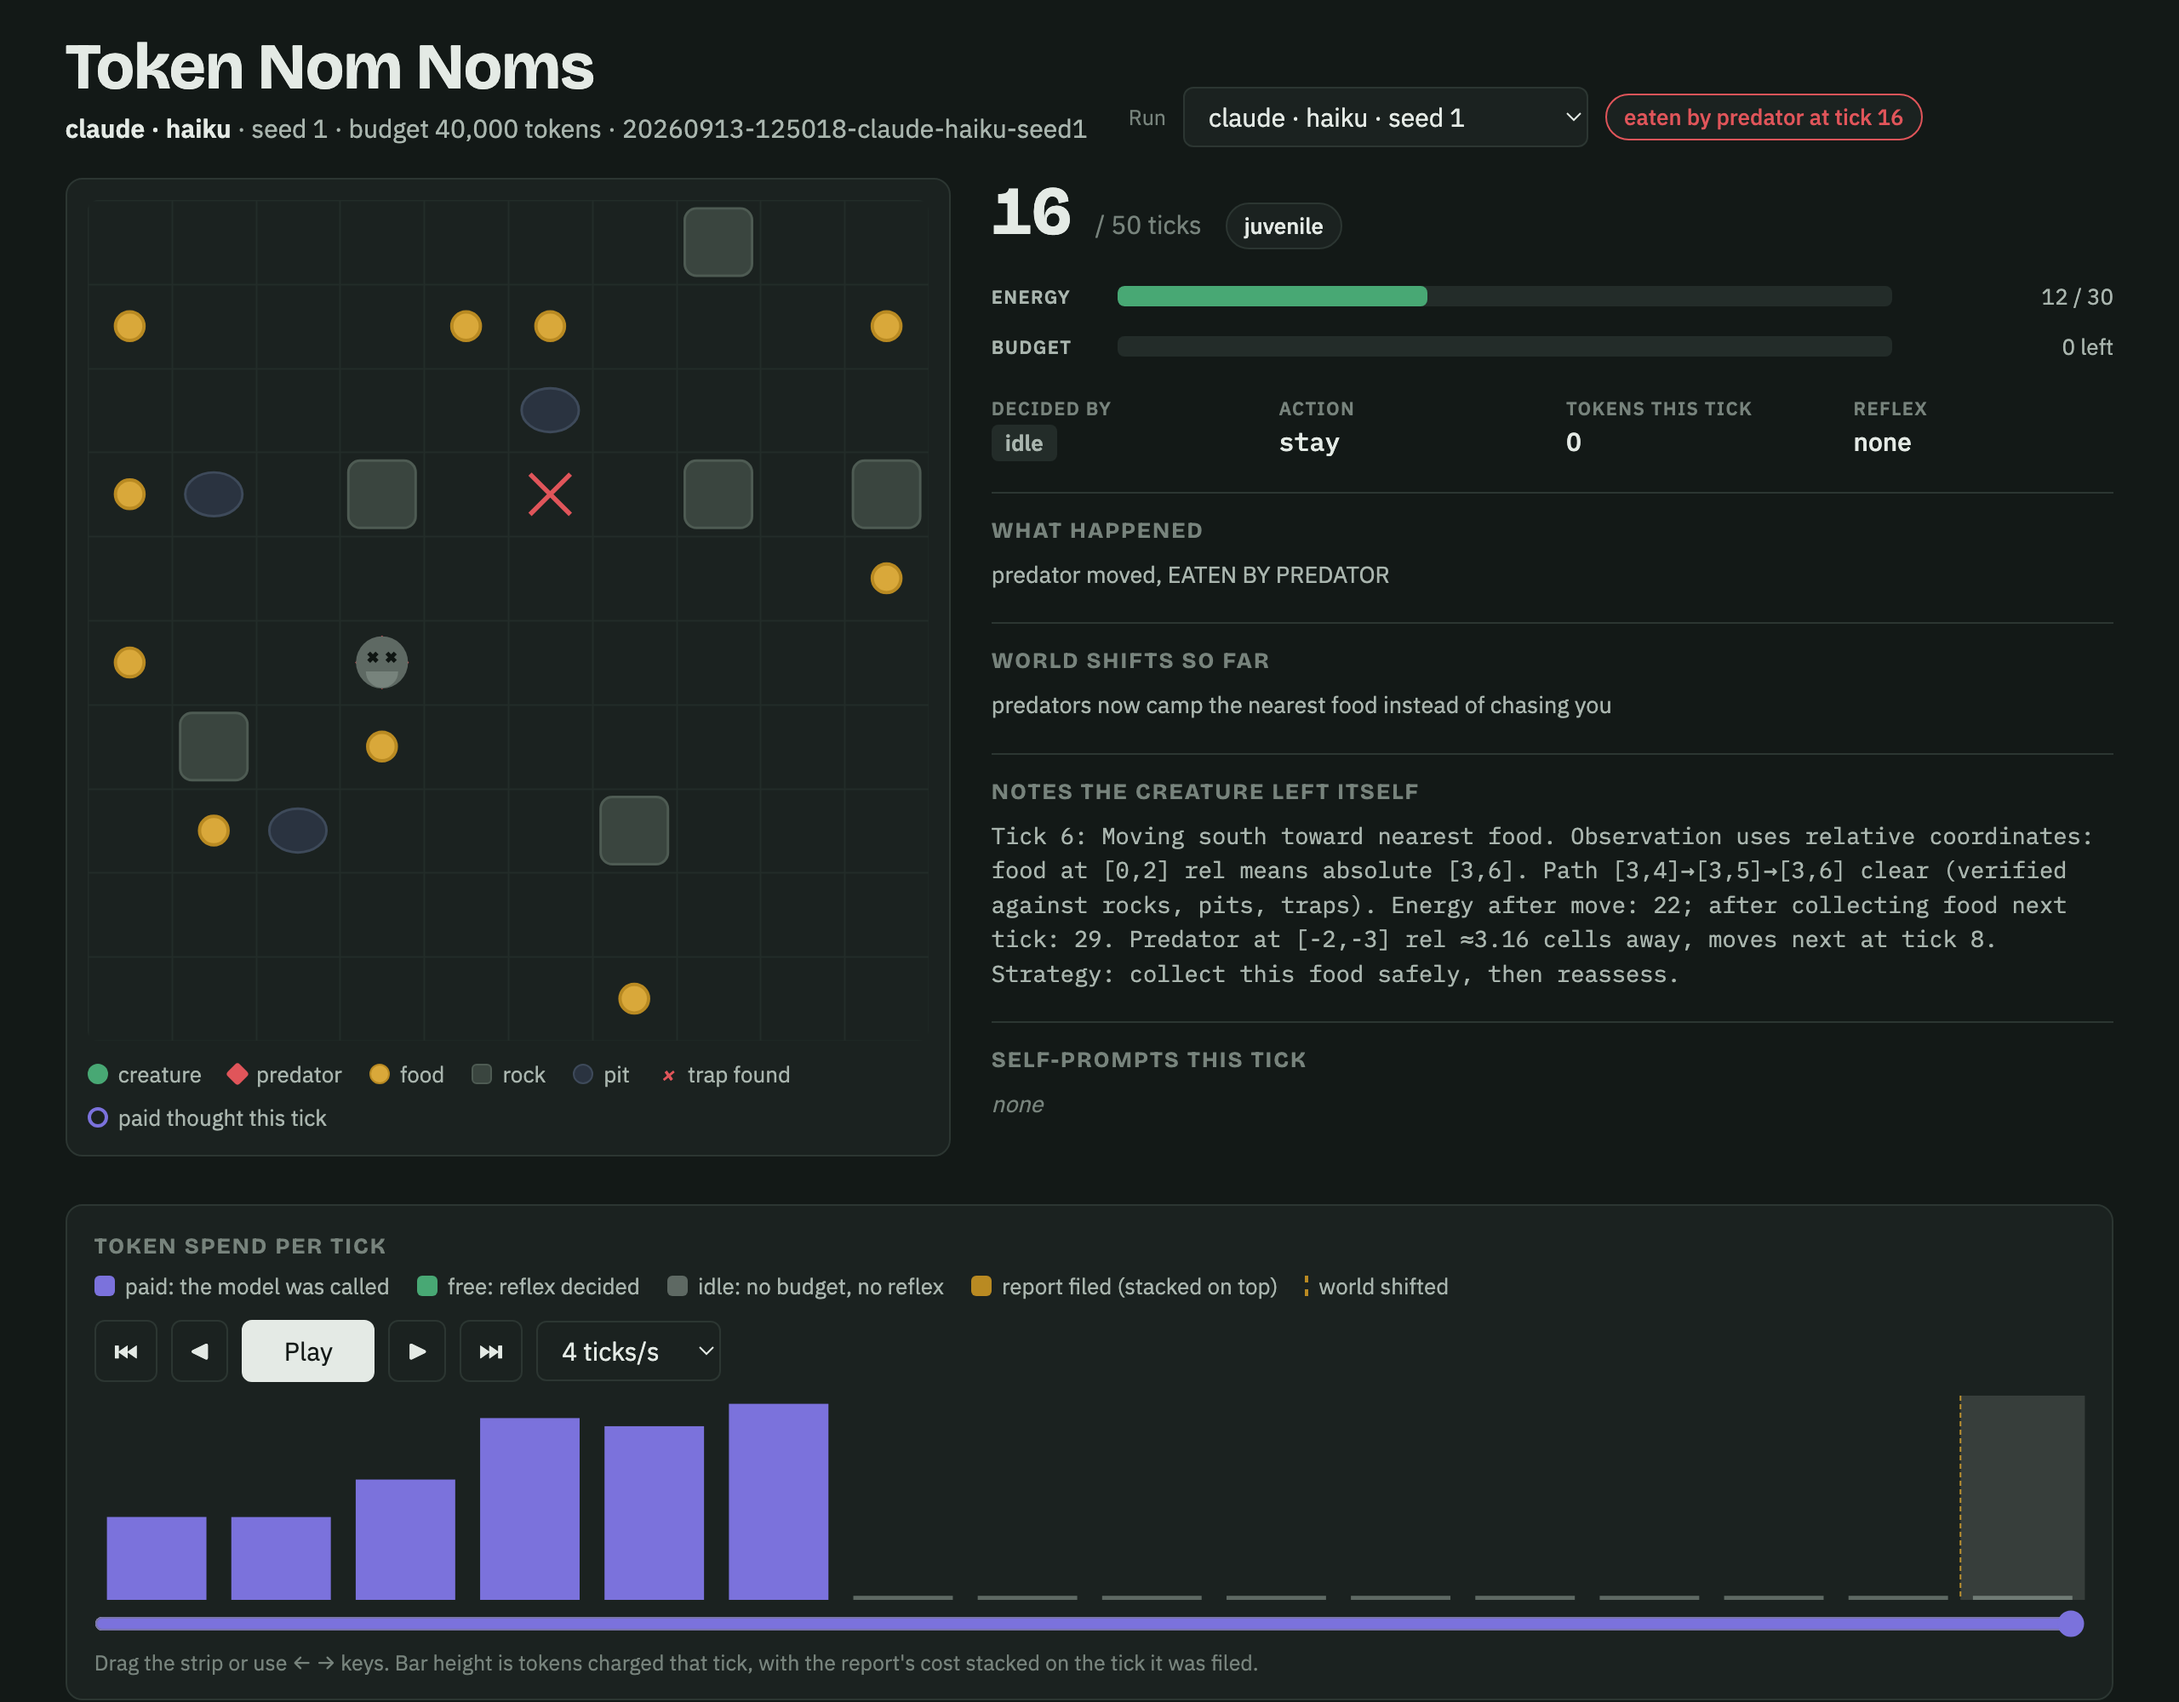
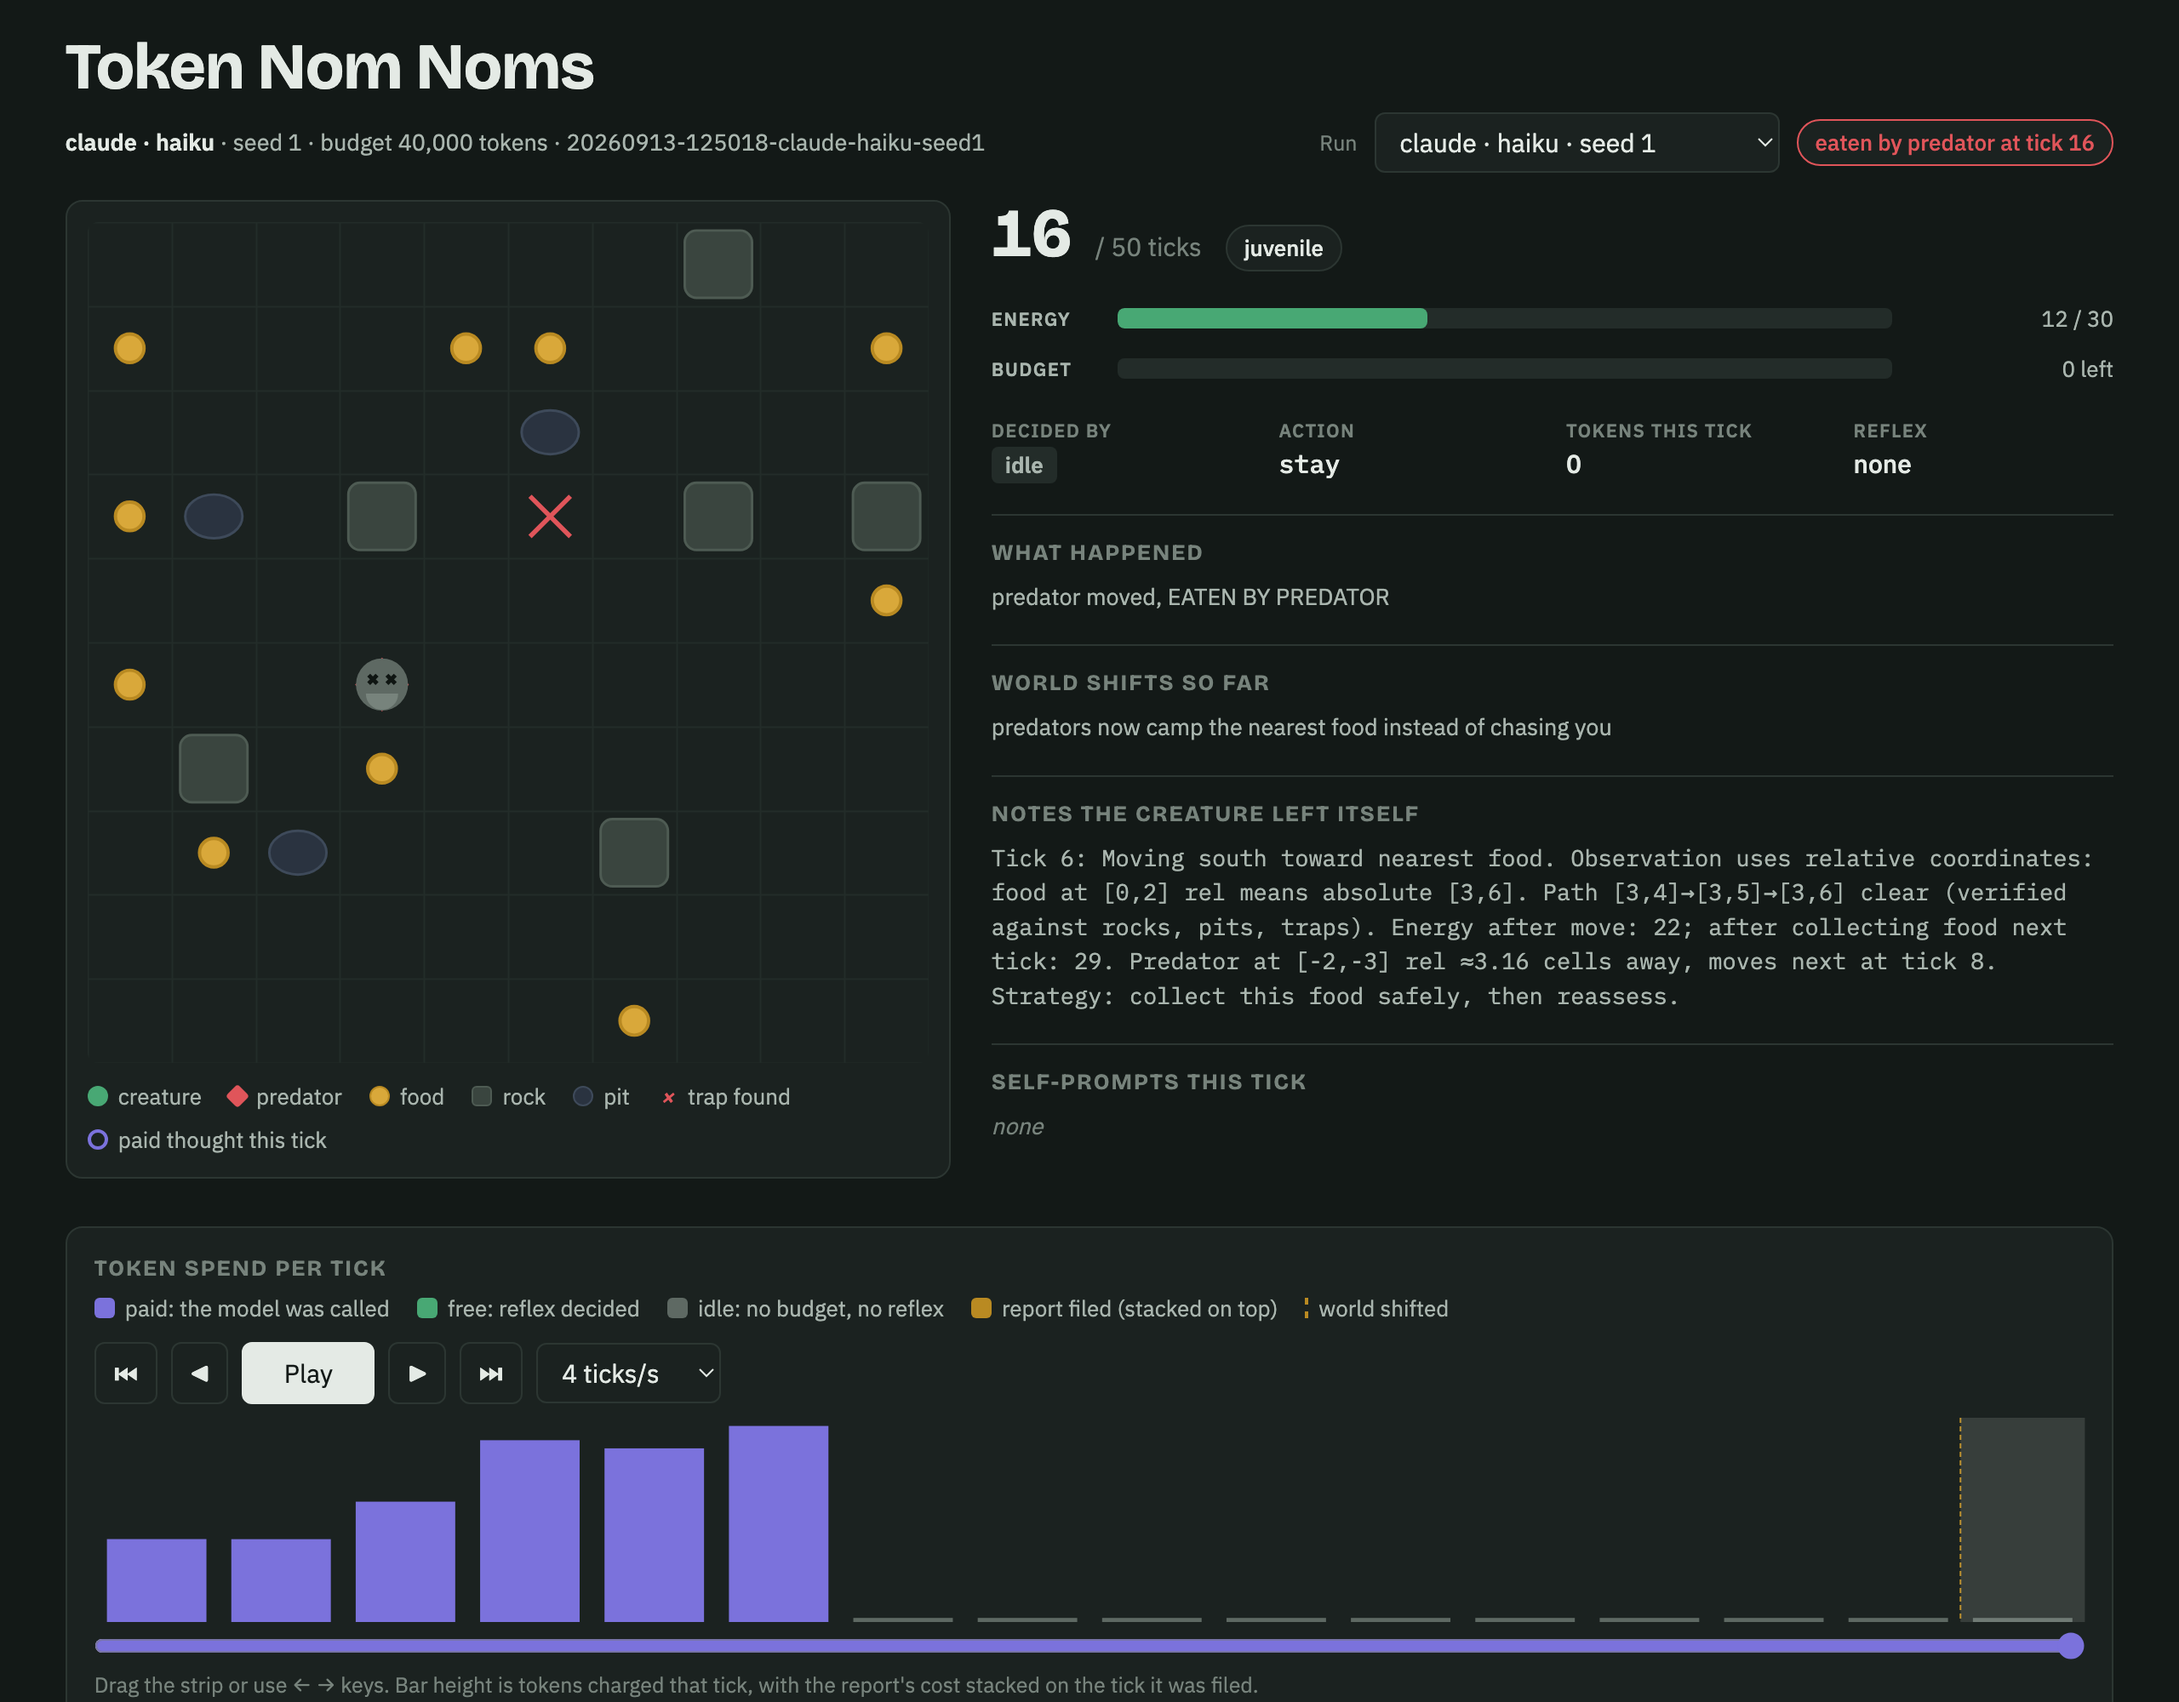
Explain the game on the landing page, for someone who arrives knowing nothing
The replay page opened straight into a scrubber, a grid and a spend strip with
no statement of what any of it was. Anyone who had not read the README saw an
interface and no idea why it existed.

It now opens with a plain-language explanation: every time an AI thinks it
spends tokens, an agent gets a fixed pile of them and a creature to keep alive,
it can write itself a free reflex instead of thinking, and the whole game is
knowing when a thought is worth paying for. Then the finding that makes people
look twice, which is that a reflex a person wrote in five minutes is currently
outliving every agent that paid to think. Then one line mapping the four bar
colours to what they mean, so the strip below reads on sight.

The run picker and the run's metadata moved below the explanation. They were
above it, which meant the first thing a visitor read was a timestamped run
directory name.

Verified at a true 400px layout width: the explainer stacks to one column, the
long run identifier wraps, and nothing scrolls sideways.

Claude-Session: https://claude.ai/code/session_015Nv8rGndMP9cArJpVdB4Jq

diff --git a/docs/index.html b/docs/index.html
@@ -38,9 +38,12 @@ h1{font-size:clamp(26px,3.4vw,38px);font-weight:700;letter-spacing:-0.01em;line-
 h2{font-size:13px;font-weight:600;letter-spacing:.08em;text-transform:uppercase;color:var(--ink-3)}
 .mono{font-family:"IBM Plex Mono",ui-monospace,SFMono-Regular,Menlo,monospace}
 .num{font-variant-numeric:tabular-nums}
-header{display:flex;flex-wrap:wrap;align-items:end;gap:12px 24px;margin-bottom:18px}
-header .sub{color:var(--ink-2);margin-top:4px}
-header .sub b{color:var(--ink);font-weight:600}
+header{margin-bottom:14px}
+.runbar{display:flex;flex-wrap:wrap;align-items:center;justify-content:space-between;gap:10px 24px;margin-bottom:16px}
+.runbar .sub{color:var(--ink-2);font-size:13.5px}
+.runbar .sub b{color:var(--ink);font-weight:600}
+.pick{display:flex;gap:10px;align-items:center;flex-wrap:wrap}
+.pick label{font-size:12.5px;color:var(--ink-3)}
 .pill{display:inline-flex;align-items:center;gap:6px;padding:3px 10px;border-radius:999px;font-size:13px;font-weight:500;border:1px solid var(--line);background:var(--panel)}
 .pill.dead{border-color:var(--predator);color:var(--predator)}
 .pill.alive{border-color:var(--reflex);color:var(--reflex)}
@@ -48,6 +51,19 @@ select,button{font:inherit;color:var(--ink);background:var(--panel);border:1px s
 button:hover,select:hover{border-color:var(--ink-3)}
 button:focus-visible,select:focus-visible,input:focus-visible,canvas:focus-visible,.strip:focus-visible{outline:2px solid var(--focus);outline-offset:2px}
 button.primary{background:var(--ink);color:var(--bg);border-color:var(--ink);min-width:78px}
+.explain{border-top:1px solid var(--line);border-bottom:1px solid var(--line);padding-block:18px;margin-bottom:22px;display:grid;gap:16px}
+.lede{margin:0;font-family:"Bricolage Grotesque","IBM Plex Sans",system-ui,sans-serif;font-size:clamp(18px,2.2vw,23px);font-weight:500;line-height:1.3;letter-spacing:-0.01em;max-width:34ch;text-wrap:balance}
+.lede b{font-weight:700}
+.how{display:grid;grid-template-columns:repeat(auto-fit,minmax(230px,1fr));gap:18px 28px}
+.how h3{margin:0 0 4px;font-family:"IBM Plex Sans",system-ui,sans-serif;font-size:13.5px;font-weight:600;color:var(--ink)}
+.how p{margin:0;font-size:13.5px;color:var(--ink-2);max-width:46ch}
+.how b{color:var(--ink);font-weight:600}
+.finding{margin:0;font-size:14.5px;line-height:1.45;color:var(--ink);border-left:3px solid var(--reflex);padding-left:12px;max-width:62ch}
+.guide{margin:0;font-size:13px;color:var(--ink-2)}
+.guide .k{font-weight:600;white-space:nowrap}
+.guide .k::before{content:"";display:inline-block;width:9px;height:9px;border-radius:2px;margin-right:5px;vertical-align:baseline;background:currentColor}
+.guide .paid{color:var(--model)}.guide .free{color:var(--reflex)}
+.guide .rept{color:var(--food)}.guide .out{color:var(--idle)}
 .stage{display:grid;grid-template-columns:minmax(260px,520px) minmax(280px,1fr);gap:24px;align-items:start}
 @media (max-width:760px){.stage{grid-template-columns:1fr}}
 .world{background:var(--panel);border:1px solid var(--line);border-radius:10px;padding:12px}
@@ -104,16 +120,41 @@ pre{margin:0;background:var(--panel);border:1px solid var(--line);border-radius:
 </style>
 
 <header>
-  <div>
-    <h1>Token Nom Noms</h1>
-    <div class="sub" id="meta"></div>
+  <h1>Token Nom Noms</h1>
+</header>
+
+<section class="explain">
+  <p class="lede">Every time an AI thinks, it spends <b>tokens</b>, the units its bill is counted in. This is a game about running out of them.</p>
+  <div class="how">
+    <div>
+      <h3>One creature, one budget</h3>
+      <p>An AI agent is handed a small world, a creature to keep alive, and a fixed pile of tokens. Every thought it has is deducted from the pile. When the pile is empty, it never thinks again.</p>
+    </div>
+    <div>
+      <h3>Thinking costs, instinct is free</h3>
+      <p>The agent can write itself a <b>reflex</b>: a few lines of code that play the creature automatically. Writing it costs tokens once. Running it costs nothing, forever.</p>
+    </div>
+    <div>
+      <h3>So when is a thought worth paying for?</h3>
+      <p>That is the entire game, and it is the same question anyone building with AI has to answer. Each run below is one agent's attempt at an answer, logged down to the last token.</p>
+    </div>
   </div>
-  <div style="display:flex;gap:10px;align-items:center;flex-wrap:wrap">
-    <label for="runsel" class="hint" id="runsel-label">Run</label>
+  <p class="finding">So far, a reflex a person wrote in five minutes, costing nothing at all, is outliving every agent that paid to think.</p>
+  <p class="guide">Pick a run, press play, and watch the bar along the bottom.
+    <span class="k paid">Purple</span> is a paid thought.
+    <span class="k free">Green</span> is the free reflex playing.
+    <span class="k rept">Amber</span> is a report the agent was required to file.
+    <span class="k out">Grey</span> is out of money with no reflex to fall back on.</p>
+</section>
+
+<div class="runbar">
+  <div class="sub" id="meta"></div>
+  <div class="pick">
+    <label for="runsel" id="runsel-label">Run</label>
     <select id="runsel" aria-labelledby="runsel-label"></select>
     <span class="pill" id="outcome"></span>
   </div>
-</header>
+</div>
 
 <section class="stage">
   <div class="world">

diff --git a/nomnom/html.py b/nomnom/html.py
@@ -96,9 +96,12 @@ h1{font-size:clamp(26px,3.4vw,38px);font-weight:700;letter-spacing:-0.01em;line-
 h2{font-size:13px;font-weight:600;letter-spacing:.08em;text-transform:uppercase;color:var(--ink-3)}
 .mono{font-family:"IBM Plex Mono",ui-monospace,SFMono-Regular,Menlo,monospace}
 .num{font-variant-numeric:tabular-nums}
-header{display:flex;flex-wrap:wrap;align-items:end;gap:12px 24px;margin-bottom:18px}
-header .sub{color:var(--ink-2);margin-top:4px}
-header .sub b{color:var(--ink);font-weight:600}
+header{margin-bottom:14px}
+.runbar{display:flex;flex-wrap:wrap;align-items:center;justify-content:space-between;gap:10px 24px;margin-bottom:16px}
+.runbar .sub{color:var(--ink-2);font-size:13.5px}
+.runbar .sub b{color:var(--ink);font-weight:600}
+.pick{display:flex;gap:10px;align-items:center;flex-wrap:wrap}
+.pick label{font-size:12.5px;color:var(--ink-3)}
 .pill{display:inline-flex;align-items:center;gap:6px;padding:3px 10px;border-radius:999px;font-size:13px;font-weight:500;border:1px solid var(--line);background:var(--panel)}
 .pill.dead{border-color:var(--predator);color:var(--predator)}
 .pill.alive{border-color:var(--reflex);color:var(--reflex)}
@@ -106,6 +109,19 @@ select,button{font:inherit;color:var(--ink);background:var(--panel);border:1px s
 button:hover,select:hover{border-color:var(--ink-3)}
 button:focus-visible,select:focus-visible,input:focus-visible,canvas:focus-visible,.strip:focus-visible{outline:2px solid var(--focus);outline-offset:2px}
 button.primary{background:var(--ink);color:var(--bg);border-color:var(--ink);min-width:78px}
+.explain{border-top:1px solid var(--line);border-bottom:1px solid var(--line);padding-block:18px;margin-bottom:22px;display:grid;gap:16px}
+.lede{margin:0;font-family:"Bricolage Grotesque","IBM Plex Sans",system-ui,sans-serif;font-size:clamp(18px,2.2vw,23px);font-weight:500;line-height:1.3;letter-spacing:-0.01em;max-width:34ch;text-wrap:balance}
+.lede b{font-weight:700}
+.how{display:grid;grid-template-columns:repeat(auto-fit,minmax(230px,1fr));gap:18px 28px}
+.how h3{margin:0 0 4px;font-family:"IBM Plex Sans",system-ui,sans-serif;font-size:13.5px;font-weight:600;color:var(--ink)}
+.how p{margin:0;font-size:13.5px;color:var(--ink-2);max-width:46ch}
+.how b{color:var(--ink);font-weight:600}
+.finding{margin:0;font-size:14.5px;line-height:1.45;color:var(--ink);border-left:3px solid var(--reflex);padding-left:12px;max-width:62ch}
+.guide{margin:0;font-size:13px;color:var(--ink-2)}
+.guide .k{font-weight:600;white-space:nowrap}
+.guide .k::before{content:"";display:inline-block;width:9px;height:9px;border-radius:2px;margin-right:5px;vertical-align:baseline;background:currentColor}
+.guide .paid{color:var(--model)}.guide .free{color:var(--reflex)}
+.guide .rept{color:var(--food)}.guide .out{color:var(--idle)}
 .stage{display:grid;grid-template-columns:minmax(260px,520px) minmax(280px,1fr);gap:24px;align-items:start}
 @media (max-width:760px){.stage{grid-template-columns:1fr}}
 .world{background:var(--panel);border:1px solid var(--line);border-radius:10px;padding:12px}
@@ -162,16 +178,41 @@ pre{margin:0;background:var(--panel);border:1px solid var(--line);border-radius:
 </style>
 
 <header>
-  <div>
-    <h1>Token Nom Noms</h1>
-    <div class="sub" id="meta"></div>
+  <h1>Token Nom Noms</h1>
+</header>
+
+<section class="explain">
+  <p class="lede">Every time an AI thinks, it spends <b>tokens</b>, the units its bill is counted in. This is a game about running out of them.</p>
+  <div class="how">
+    <div>
+      <h3>One creature, one budget</h3>
+      <p>An AI agent is handed a small world, a creature to keep alive, and a fixed pile of tokens. Every thought it has is deducted from the pile. When the pile is empty, it never thinks again.</p>
+    </div>
+    <div>
+      <h3>Thinking costs, instinct is free</h3>
+      <p>The agent can write itself a <b>reflex</b>: a few lines of code that play the creature automatically. Writing it costs tokens once. Running it costs nothing, forever.</p>
+    </div>
+    <div>
+      <h3>So when is a thought worth paying for?</h3>
+      <p>That is the entire game, and it is the same question anyone building with AI has to answer. Each run below is one agent's attempt at an answer, logged down to the last token.</p>
+    </div>
   </div>
-  <div style="display:flex;gap:10px;align-items:center;flex-wrap:wrap">
-    <label for="runsel" class="hint" id="runsel-label">Run</label>
+  <p class="finding">So far, a reflex a person wrote in five minutes, costing nothing at all, is outliving every agent that paid to think.</p>
+  <p class="guide">Pick a run, press play, and watch the bar along the bottom.
+    <span class="k paid">Purple</span> is a paid thought.
+    <span class="k free">Green</span> is the free reflex playing.
+    <span class="k rept">Amber</span> is a report the agent was required to file.
+    <span class="k out">Grey</span> is out of money with no reflex to fall back on.</p>
+</section>
+
+<div class="runbar">
+  <div class="sub" id="meta"></div>
+  <div class="pick">
+    <label for="runsel" id="runsel-label">Run</label>
     <select id="runsel" aria-labelledby="runsel-label"></select>
     <span class="pill" id="outcome"></span>
   </div>
-</header>
+</div>
 
 <section class="stage">
   <div class="world">

diff --git a/README.md b/README.md
@@ -4,9 +4,9 @@
 
 [![The free hand-written reflex stalled beside a rock on seed 1, food all around it, two traps already found](docs/screenshot.png)](https://sturdynut.github.io/token-nom-noms/#run=4&tick=30)
 
-*The zero-token reflex, stalled against a rock with food all around it. Straight-line
-distance is the only thing it knows, and terrain makes that a lie. Click through to
-scrub the run.*
+*The landing page, and the point it makes. The zero-token reflex is stalled against a
+rock with food all around it, because straight-line distance is the only thing it knows
+and terrain makes that a lie. Click through to scrub the run yourself.*
 
 A survival game where the creature's brain is an LLM agent, and every thought
 costs tokens from a fixed budget. The agent can only act by prompting itself.
